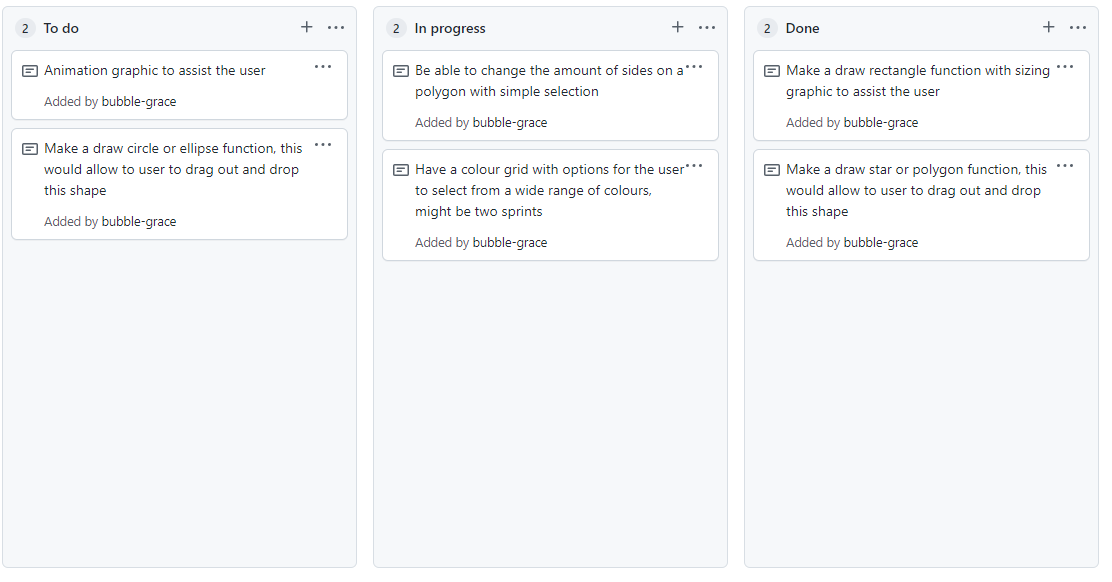
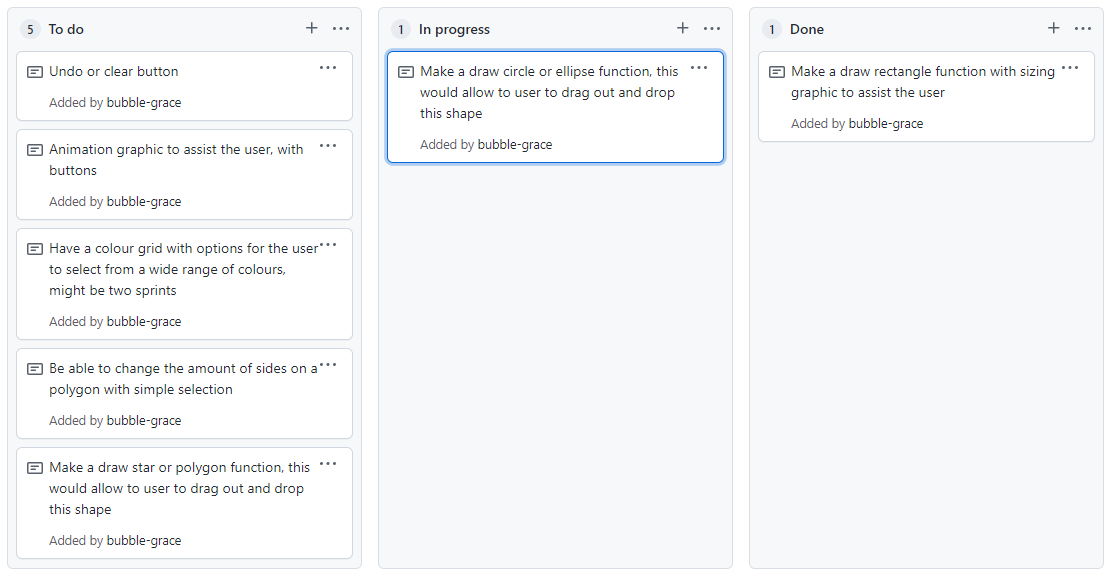
Sprint 1 - Website Update

diff --git a/website_planning/sample_site/template_class.html b/website_planning/sample_site/template_class.html
@@ -81,9 +81,11 @@
 					Your browser does not support the video tag.
 				</video>
 
- <h3>Reflect</h3>
+ <h3>Reflection</h3>
 				<p>In the video above you can see the code responses correctly to the expected input, creating a rectangle of the correct proportions. Including not creating a shape when the mouse is out of the canvas.  There is one main issue with this sprint and this is the circle because it responds to the width. When a rectangle is very long and not tall, the circle will have a larger radius than the height of the circle, therefore the circle is outside the rectangle. To fix this I will add an if statement if radius > height +5 make the radius the height divided by 10.
 				</p>
+
+				<p>Another main issue is that if you go out of bounds it does not draw the rectangle to the bounds, only making no rectangle appear. To fix this in the next version I will add a cut piece of code to allow the rectangle to form but only cutting off the part that is out of bounds. </p>
 <hr>
 <h1>Sprint Two</h1>
 

diff --git a/main.html b/main.html
@@ -6,7 +6,7 @@
 <script type="text/javascript" src="rectangle.js"> </script>
 
 <script>
-    let G = new Grid(width, height, 25, colArray[0][1], 0.3);
+    let G = new Grid(width, height, 25, "rgb(169,169,169)", 0.3);
     let O = new Manager();
     function animate(){
         ctx.clearRect(0,0, width, height);

diff --git a/init.js b/init.js
@@ -8,8 +8,11 @@ let width = 800;
 
 let height = 600;
 
+let colour = "rgb(169,169,169)"
+
 canvas.width = width;
 canvas.height = height;
+canvas.colour = colour
 
 console.log("init.js has been called")
 let myScale = 0;
